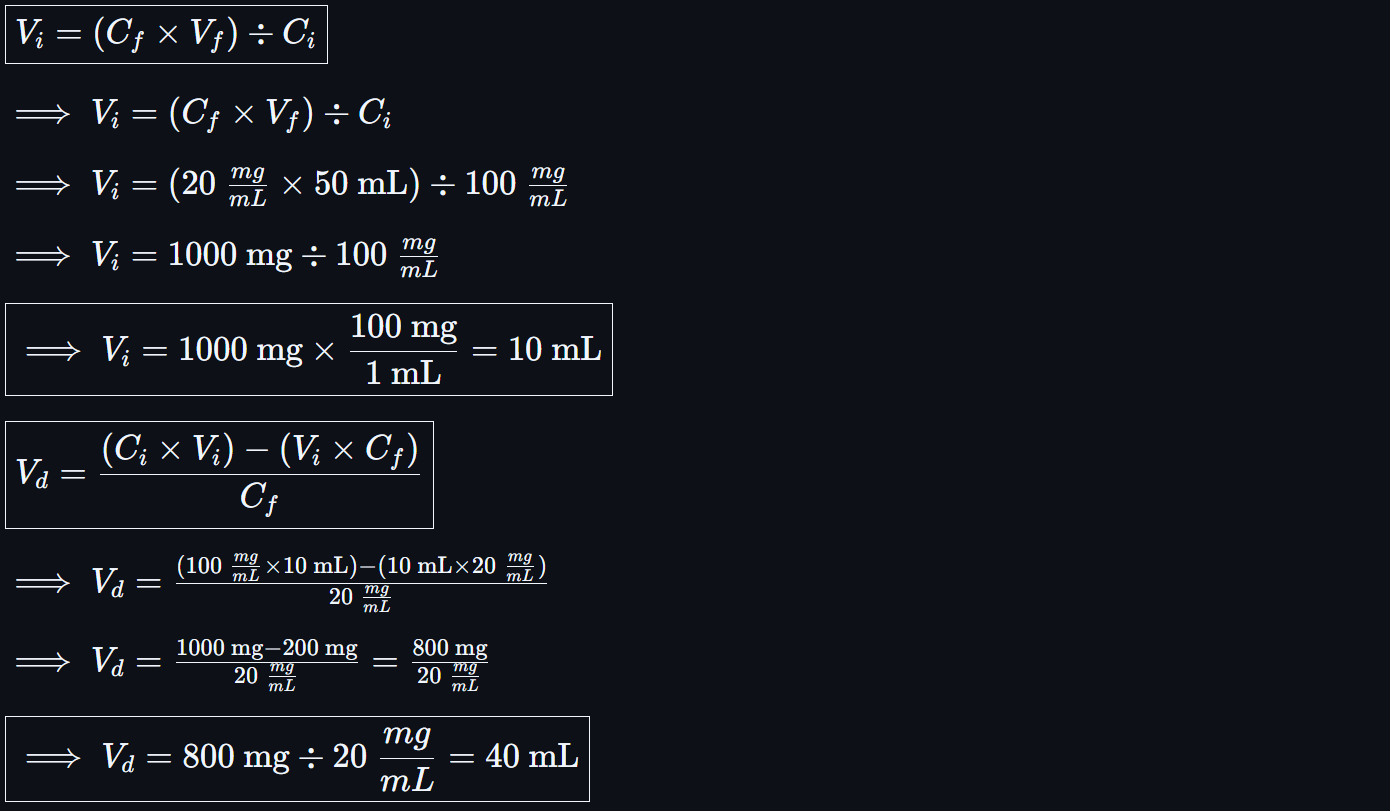
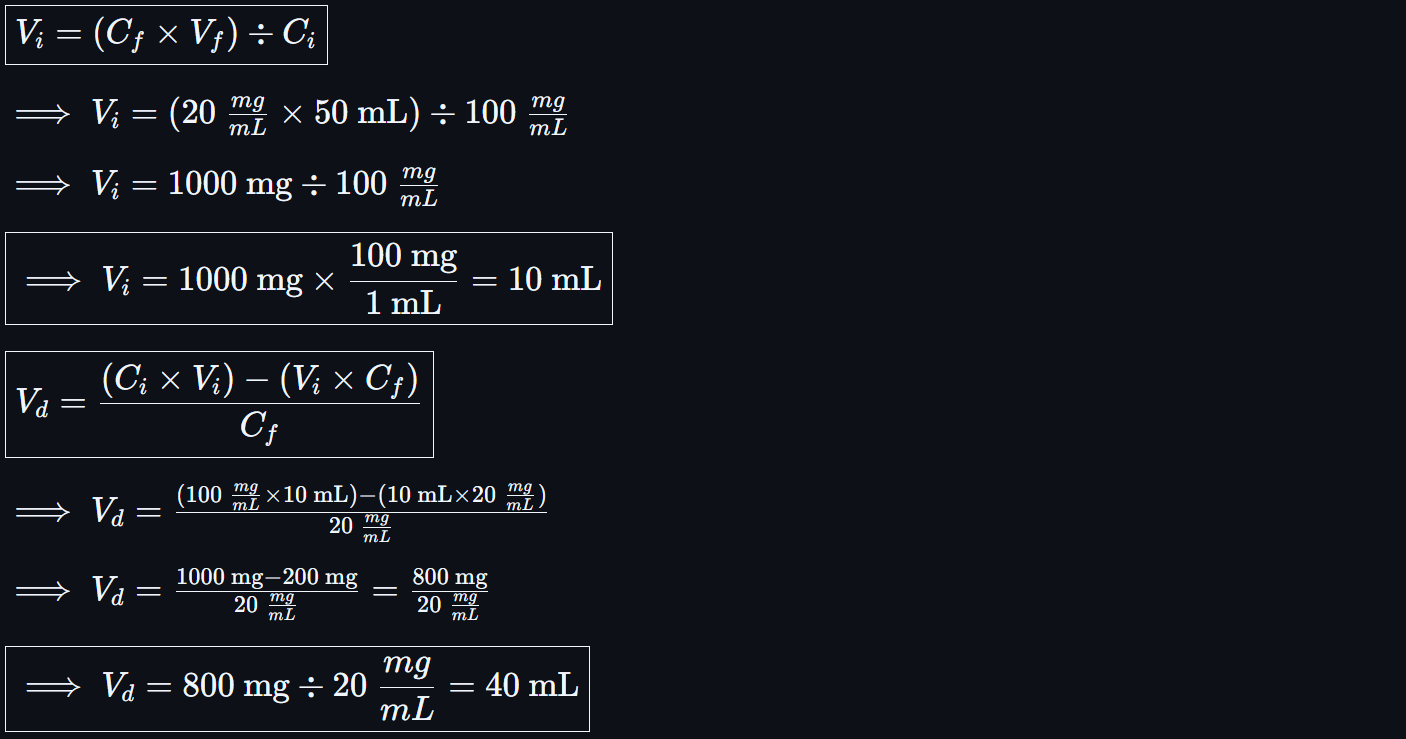
replace with pictures

Changed region(s): [[0.0, 0.1245, 0.4331, 0.6225], [0.0, 0.6536, 0.4331, 0.9959], [0.0, 0.0, 0.2475, 0.0934]]

diff --git a/math/dilutions.md b/math/dilutions.md
@@ -52,15 +52,18 @@ ${\boxed{\implies \text{Initial, Stock Volume Used for Dilution } (V_i)} =  \fra
 
 Option 1: **Plugging In**
 
-${\boxed{C_f = (C_i \times V_i) \div (V_i + V_d)}}$
+![img](./img/dilutions/e1_o1.PNG)
+<!-- ${\boxed{C_f = (C_i \times V_i) \div (V_i + V_d)}}$
 
 ${\implies C_f = ({100\ \frac{mg}{mL} \times \text{2 mL}}) \div (\text{2 mL + 8 mL})}$
 
-${\boxed{\implies C_f = \text{200 mg} \div \text{10 mL} = 20\ \frac{mg}{mL}}}$
+${\boxed{\implies C_f = \text{200 mg} \div \text{10 mL} = 20\ \frac{mg}{mL}}}$ -->
 
 Option 2: **Winging It**
 
-${\boxed{C_i \times V_i = C_f \times V_f}}$
+![img](./img/dilutions/e1_o2.PNG)
+
+<!-- ${\boxed{C_i \times V_i = C_f \times V_f}}$
 
 ${\boxed{V_f = V_i + V_d}}$
 
@@ -70,7 +73,7 @@ ${\implies 100\ \frac{mg}{mL} \times \text{2 mL} = C_f \times (\text{2 mL + 8 mL
 
 ${\implies \text{200 mg} = C_f \times \text{10 mL}}$
 
-${\boxed{\implies C_f = \text{200 mg} \div \text{10 mL} = 20\ \frac{mg}{mL}}}$
+${\boxed{\implies C_f = \text{200 mg} \div \text{10 mL} = 20\ \frac{mg}{mL}}}$ -->
 
 ✅ **Final Answer**: Diluting 2 mL of 100 mg/mL solution with 8 mL makes **10mL of 20 mg/mL solution**.
 
@@ -83,9 +86,9 @@ ${\boxed{\implies C_f = \text{200 mg} \div \text{10 mL} = 20\ \frac{mg}{mL}}}$
 
 Option 1: **Plugging In**
 
-${\boxed{V_i = (C_f \times V_f) \div C_i}}$
+![img](./img/dilutions/e2_o1.PNG)
 
-${\implies {V_i = (C_f \times V_f) \div C_i}}$
+<!-- ${\boxed{V_i = (C_f \times V_f) \div C_i}}$
 
 ${\implies {V_i = (20\ \frac{mg}{mL} \times \text{50 mL}) \div 100\ \frac{mg}{mL}}}$
 
@@ -99,11 +102,13 @@ ${\implies {V_d = \frac{(100\ \frac{mg}{mL} \times \text{10 mL}) - (\text{10 mL}
 
 ${\implies {V_d = \frac{\text{1000 mg} - \text{200 mg}}{20\ \frac{mg}{mL}} = \frac{\text{800 mg}}{20\ \frac{mg}{mL}}}}$
 
-${\boxed{\implies {V_d = {\text{800 mg}}\div{20\ \frac{mg}{mL}} = {\text{40 mL}}}}}$
+${\boxed{\implies {V_d = {\text{800 mg}}\div{20\ \frac{mg}{mL}} = {\text{40 mL}}}}}$ -->
 
 Option 2: **Winging It**
 
-${\boxed{C_i \times V_i = C_f \times V_f}}$
+![img](./img/dilutions/e2_o2.PNG)
+
+<!-- ${\boxed{C_i \times V_i = C_f \times V_f}}$
 
 ${\implies 100\ \frac{mg}{mL} \times V_i = 20\ \frac{mg}{mL} \times \text{50 mL}}$
 
@@ -117,7 +122,7 @@ ${\boxed{V_f = V_i + V_d}}$
 
 ${\implies \text{50 mL} = \text{10 mL} + V_d}$
 
-${\boxed{\implies V_d = \text{50 mL} - \text{10 mL} = \text{40 mL}}}$
+${\boxed{\implies V_d = \text{50 mL} - \text{10 mL} = \text{40 mL}}}$ -->
 
 ✅ **Final Answer**: Add **40 mL diluent** to **10 mL of 100 mg/mL solution**, in order to make 50 mL of 20 mg/mL solution.
 
@@ -136,7 +141,9 @@ ${\boxed{\implies V_d = \text{50 mL} - \text{10 mL} = \text{40 mL}}}$
 
 Option 1: **Plugging In**
 
-${\boxed{V_i = \frac{C_f \times V_f}{C_i}}}$
+![img](./img/dilutions/e3_o1.PNG)
+
+<!-- ${\boxed{V_i = \frac{C_f \times V_f}{C_i}}}$
 
 ${\implies V_i = \frac{0.10 \times 30\ mL}{0.20}}$
 
@@ -146,11 +153,13 @@ ${\boxed{V_d = V_f - V_i}}$
 
 ${\implies {V_d = 30\ mL - 15\ mL }}$
 
-${\boxed{\implies V_d = 15\ mL}}$
+${\boxed{\implies V_d = 15\ mL}}$ -->
 
 Option 2: **Winging It**
 
-${\boxed{C_i \times V_i = C_f \times V_f}}$
+![img](./img/dilutions/e3_o2.PNG)
+
+<!-- ${\boxed{C_i \times V_i = C_f \times V_f}}$
 
 ${\implies 0.20 \times V_i = 0.10 \times 30\ mL}$
 
@@ -162,7 +171,7 @@ ${\boxed{V_d = V_f - V_i}}$
 
 ${\implies {V_d = 30\ mL - 15\ mL }}$
 
-${\boxed{\implies V_d = 15\ mL}}$
+${\boxed{\implies V_d = 15\ mL}}$ -->
 
 ✅ **Final Answer**: Add **15 mL diluent** to **15 mL of 1:5 solution**, in order to make 30 mL of 1:10 solution.
 
